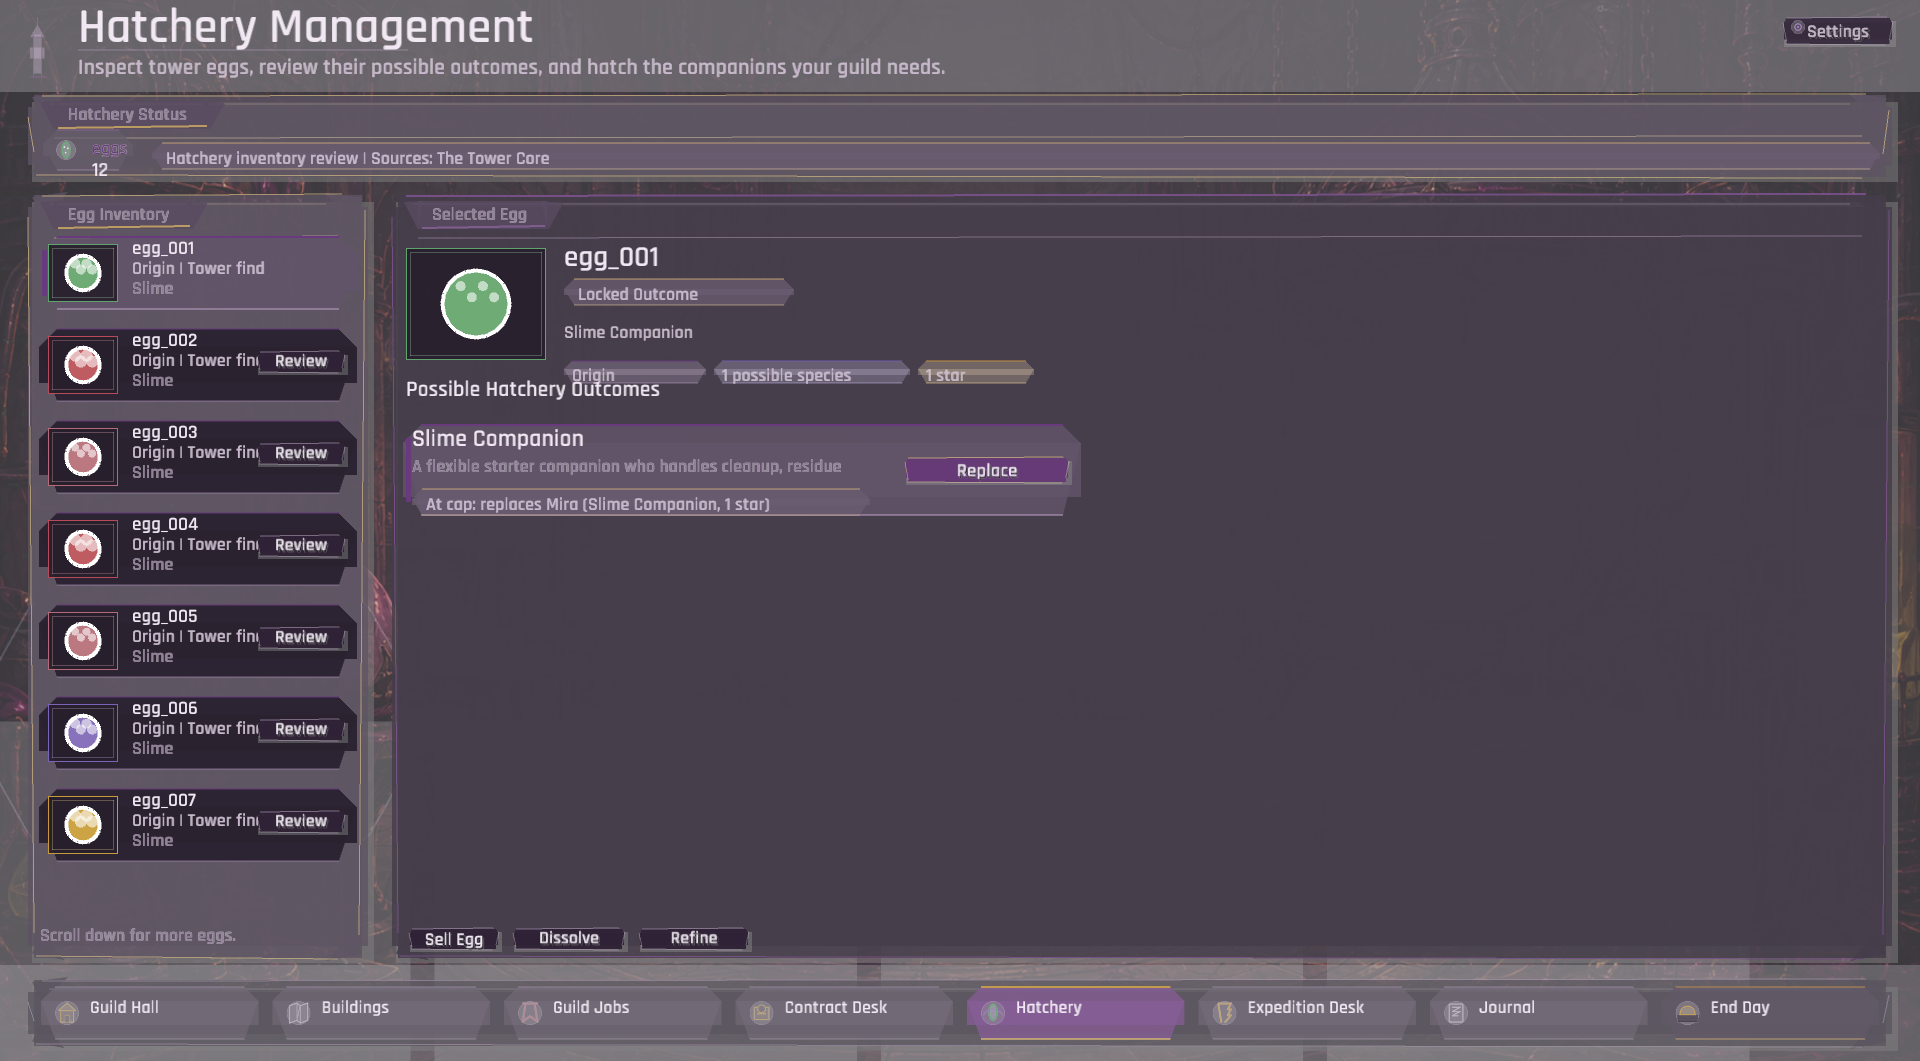
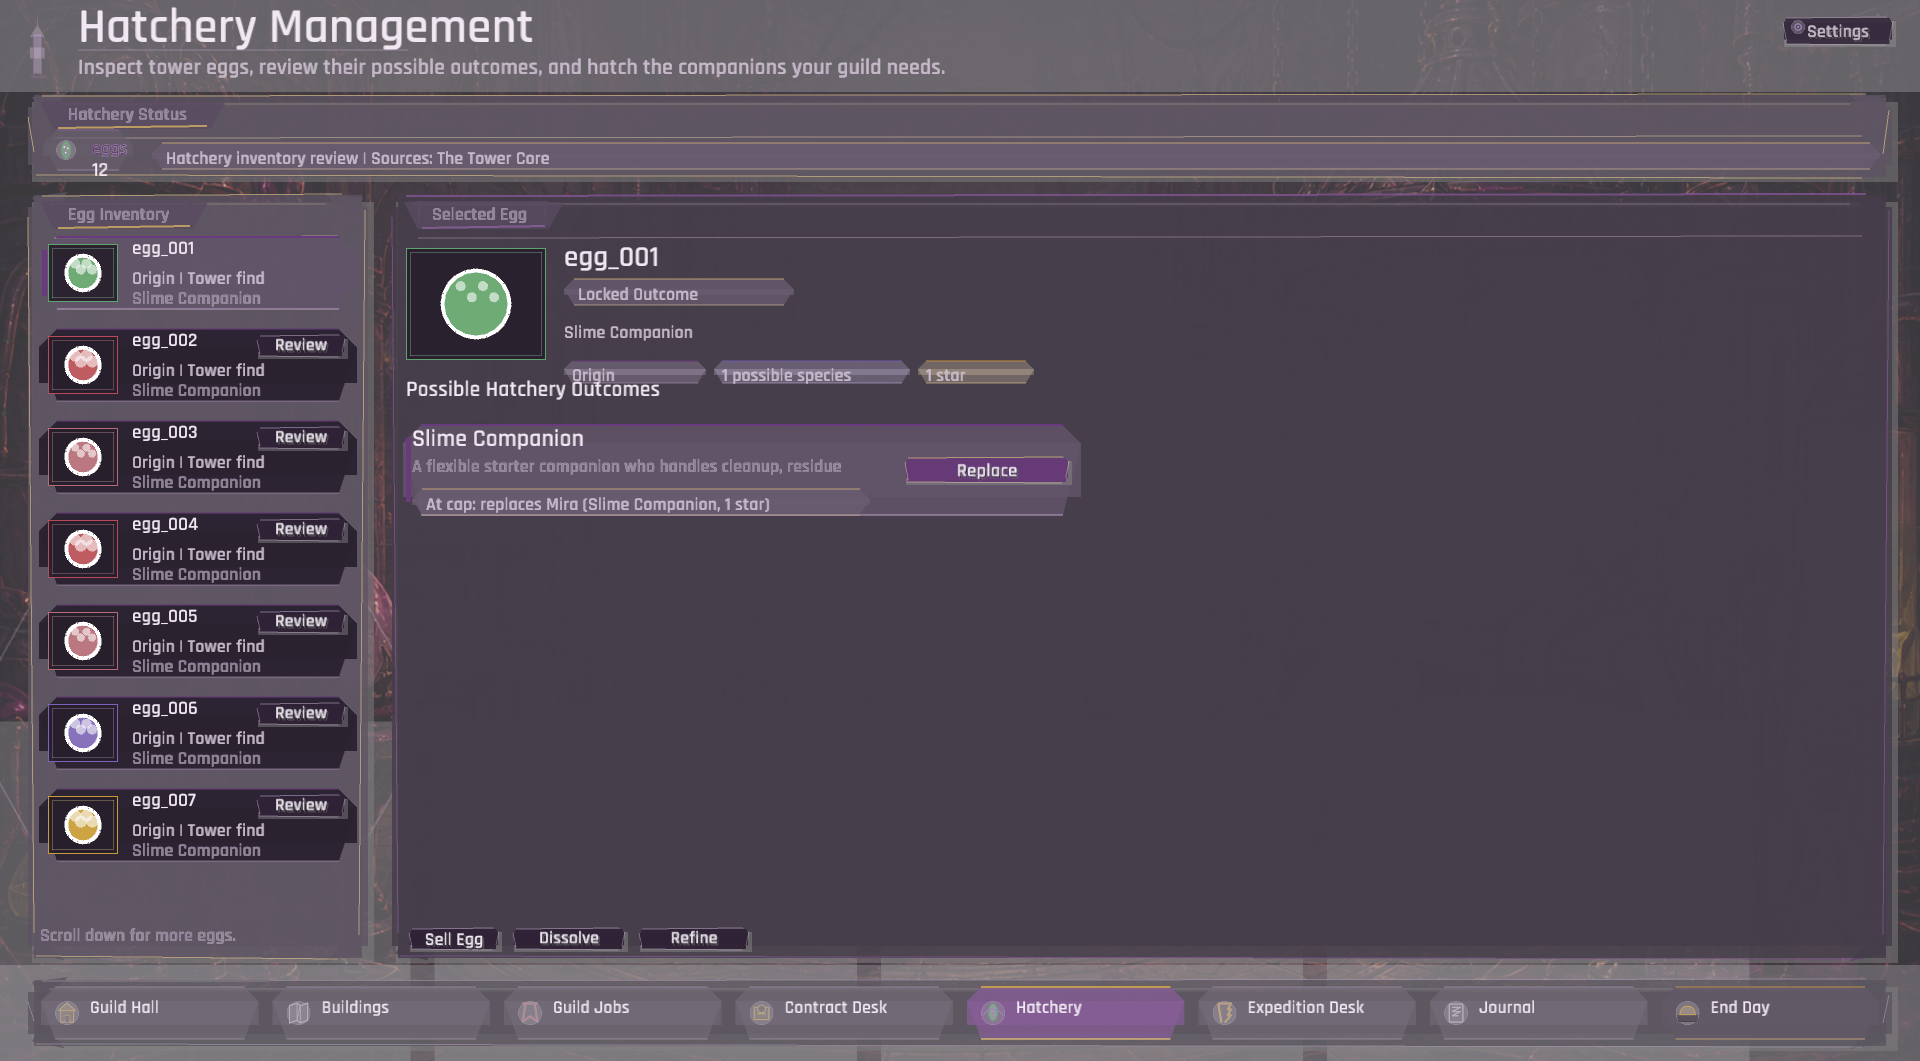
Every egg in the hatchery came from a Tower fin, and hatched a Slime
The inventory rows lost the end of both their lines. The grade and provenance
read "Origin | Tower fin" — cut mid-word — and the outcome underneath it read
"Slime" for a Slime Companion. Two different causes sharing one row. The first
line was an unbounded draw running underneath the Review button. The second was
correctly bounded, but into the hundred and ten pixels left over beside that
button, which is not enough for a species name.

The button sits beside the egg id now, where the text is short, and both lines
take the column's full width. They read "Origin | Tower find" and "Slime
Companion".

The first attempt at this made it worse, which is worth writing down. Boxing the
line at the y it already had dropped it straight onto the line below, because
one helper takes a baseline and the other takes the top of a block, and the
difference is eighteen pixels. A capture showed that in about ten seconds.
Reasoning about it had produced a confident wrong answer.

The harness has a late-campaign purse now. Every capture so far has photographed
a day-one economy — three figures of gold in a game that reaches seven — so a
number too wide for its tile could never have turned up in one. The tiles hold
two million without complaint, and setting the money surfaced a Pay Debt button
that no screenshot has ever contained, because it only exists once the guild can
clear the balance in full.

This is a thinner pass than the last four and the ledger says so. What it mostly
[…]

diff --git a/src/ui/screens/hatchery_management_sections.rs b/src/ui/screens/hatchery_management_sections.rs
@@ -293,14 +293,22 @@ pub(super) fn draw_inventory_panel(
             16.0,
             theme::TEXT_STRONG,
         );
-        draw_body_text(
+        // Both text lines take the column's full width, with the Review button
+        // lifted up beside the egg id. This line was an unbounded
+        // `draw_body_text` running underneath that button — "Origin | Tower fin",
+        // a word short with nothing to say it had been cut — while the outcome
+        // line below it squeezed into the 110px sliver left over and lost the
+        // species name, showing "Slime" for a Slime Companion.
+        draw_body_text_in_box(
             &format!(
                 "{} | {}",
                 egg_grade_label(egg, data),
                 egg_provenance_label(data, egg)
             ),
             layout.left_margin + 108.0,
-            row_y + 40.0,
+            row_y + 32.0,
+            layout.inventory_w - 132.0,
+            18.0,
             13.0,
             theme::TEXT_BODY,
         );
@@ -315,11 +323,15 @@ pub(super) fn draw_inventory_panel(
         } else {
             chamber_text.review_required_message.clone()
         };
+        // Below the Review button rather than beside it, which is where the row
+        // has its full width. The button occupies row_y+24..48 on the right; a
+        // line under it can use the whole column instead of the 110px sliver
+        // left over, which is what was cutting "Tower find" to "Tower".
         draw_body_text_in_box(
             &preview_text,
             layout.left_margin + 108.0,
-            row_y + 42.0,
-            layout.inventory_w - 238.0,
+            row_y + 52.0,
+            layout.inventory_w - 132.0,
             22.0,
             12.0,
             theme::TEXT_MUTED,
@@ -327,7 +339,7 @@ pub(super) fn draw_inventory_panel(
         if !is_selected
             && secondary_button(
                 layout.left_margin + layout.inventory_w - 118.0,
-                row_y + 24.0,
+                row_y + 8.0,
                 94.0,
                 24.0,
                 &chamber_text.select_button,

diff --git a/src/game/capture.rs b/src/game/capture.rs
@@ -122,6 +122,15 @@ impl Game {
         }
         game_state.resources.eggs = game_state.egg_inventory.len() as u32;
 
+        // A late-campaign purse. Every capture so far has photographed a day-one
+        // economy — three-digit gold against a game that reaches seven — so a
+        // number too wide for its tile would never have shown up in one. These
+        // are the ten-seed day-365 maxima from the balance reports.
+        game_state.resources.gold = 2_050_396;
+        game_state.resources.arcane_residue = 120_248;
+        game_state.resources.relics = 292;
+        game_state.resources.tower_materials = 48_610;
+
         // And the campaign log, which is the list in this game that grows
         // largest and was the last one no capture had ever seen full. It gains
         // about twelve entries a day and is never trimmed, so a day-365 save

diff --git a/TODO.md b/TODO.md
@@ -171,6 +171,46 @@ in the spec.
 What was fixed this pass is the measurement, not the balance: the collapse is
 now in every report instead of only visible by running the probe by hand.
 
+### Found by review, not by the audit (2026-08-03, seventeenth pass)
+
+**A thinner pass than the last four, and worth saying so plainly.** The last two
+screens were photographed crowded, several suspected problems were checked and
+found clean, and one real defect came out of it.
+
+- ~~Every row of the egg list lost the end of both its lines.~~ Fixed. The
+  hatchery's inventory rows read *"Origin | Tower fin"* and *"Slime"* — a
+  provenance cut mid-word and a species name reduced to its first word. Two
+  causes in the same row: the grade/provenance line was an unbounded
+  `draw_body_text` running underneath the Review button, and the outcome line
+  below it was correctly boxed but into the 110px sliver left beside that button.
+  The button is lifted up beside the egg id now and both lines take the column's
+  full width: **"Origin | Tower find"** and **"Slime Companion"**.
+
+  Worth recording that the first fix made it worse. Boxing the line at its old
+  `y` collided it with the line below, because `draw_body_text` takes a baseline
+  and `draw_body_text_in_box` takes a block top — an 18px difference. The capture
+  caught it immediately; reasoning about it had not.
+
+- **The harness now photographs a late-campaign purse.** Every capture until now
+  showed a day-one economy — three-digit gold against a game that reaches seven —
+  so a number too wide for its tile could never have appeared in one. Set to the
+  ten-seed day-365 maxima (2,050,396 gold, 120,248 residue, 292 relics). The
+  resource tiles hold seven digits without complaint, and it surfaced a **"Pay
+  Debt" button no capture had ever contained**, because it only exists when the
+  guild can afford the payment in full.
+
+- **Checked and clean**, so the next pass does not repeat them: the egg outcome
+  list derives its row height from the panel and clamps sensibly against the real
+  maximum of five species per floor; the hatchery's roster-cap check and the
+  engine's are one shared function, not two copies; the replacement the screen
+  names is the id the engine is handed, so they cannot disagree; the buildings
+  list fits its column; the settings screen renders clean; and the town roster
+  card's unbounded name and species draws do not overflow, since names run to 8
+  characters and species to 21 against 154px at the narrowest supported
+  resolution — latent, not live.
+
+- **Balance untouched**; no report file changed.
+
 ### Found by review, not by the audit (2026-08-03, sixteenth pass)
 
 The last two screens never photographed crowded, and the lens that has now

diff --git a/loop.md b/loop.md
@@ -1252,6 +1252,33 @@ Stop the loop and report if:
   survivor; (c) still open and untouched: the `ui_text` migration (~40 hardcoded
   strings) and the unbounded event log in the save.
 
+- **2026-08-03 — seventeenth pass (a thinner one, and it says so).** Photographed the
+  last two screens never seen crowded — hatchery and buildings — and found **one** real
+  defect rather than the four the last pass turned up. The hatchery's egg rows lost the
+  end of both their lines: *"Origin | Tower fin"* (an unbounded `draw_body_text`
+  running under the Review button) and *"Slime"* for a Slime Companion (correctly
+  boxed, but into the 110px sliver beside that button). Button lifted beside the egg
+  id, both lines given the column's full width. The first attempt made it worse —
+  boxing the line at its old `y` collided it with the line below, because
+  `draw_body_text` takes a baseline and `draw_body_text_in_box` takes a block top, an
+  18px difference the capture caught instantly and reasoning had not. Also taught the
+  harness a **late-campaign purse** (ten-seed day-365 maxima: 2.05M gold, 120k residue,
+  292 relics), since every capture so far showed three-digit gold against a game that
+  reaches seven — the tiles hold it, and it surfaced a **"Pay Debt" button no capture
+  had ever contained**, because it only exists when the guild can pay in full.
+  **Result:** 124 tests, fmt and clippy clean, publish green, **balance untouched** —
+  no report file changed.
+  **Next iteration should know:** (a) the *fine at day one, wrong by day thirty* seam
+  is close to worked out — every screen has now been captured crowded, and this pass's
+  yield dropped sharply, so the next one should probably change lens rather than press
+  this one; (b) **checked and clean this pass, do not re-check**: egg outcome list
+  sizing, the shared roster-cap function, the replacement id the hatchery hands the
+  engine, the buildings list, the settings screen, and the town roster card's unbounded
+  name/species draws (latent at 8- and 21-character content against 154px, not live);
+  (c) the two largest untaken slices are unchanged — the `ui_text` migration (~40
+  hardcoded strings) and the **unbounded event log in the save**, which is a design
+  call about discarding history rather than a bug.
+
 ## Deferred (needs a new system or a decision; not for this loop)
 
 - **Make the validation policy's build order a plan rather than a shopping list.** Measured and
